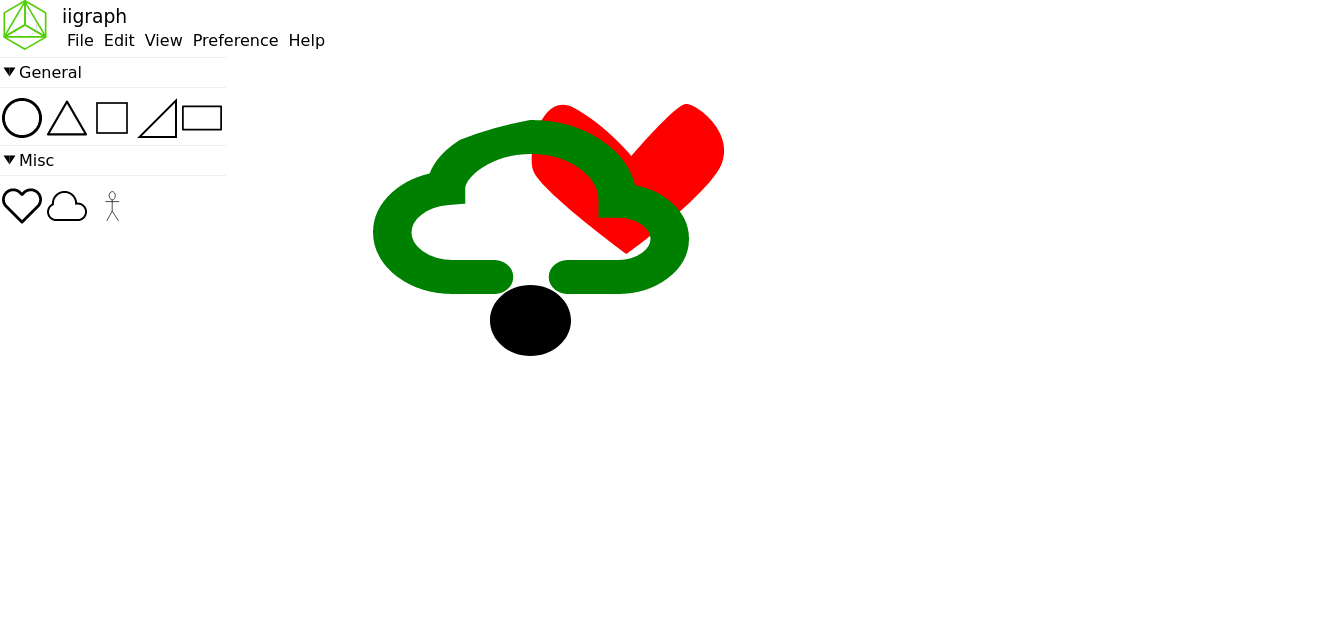
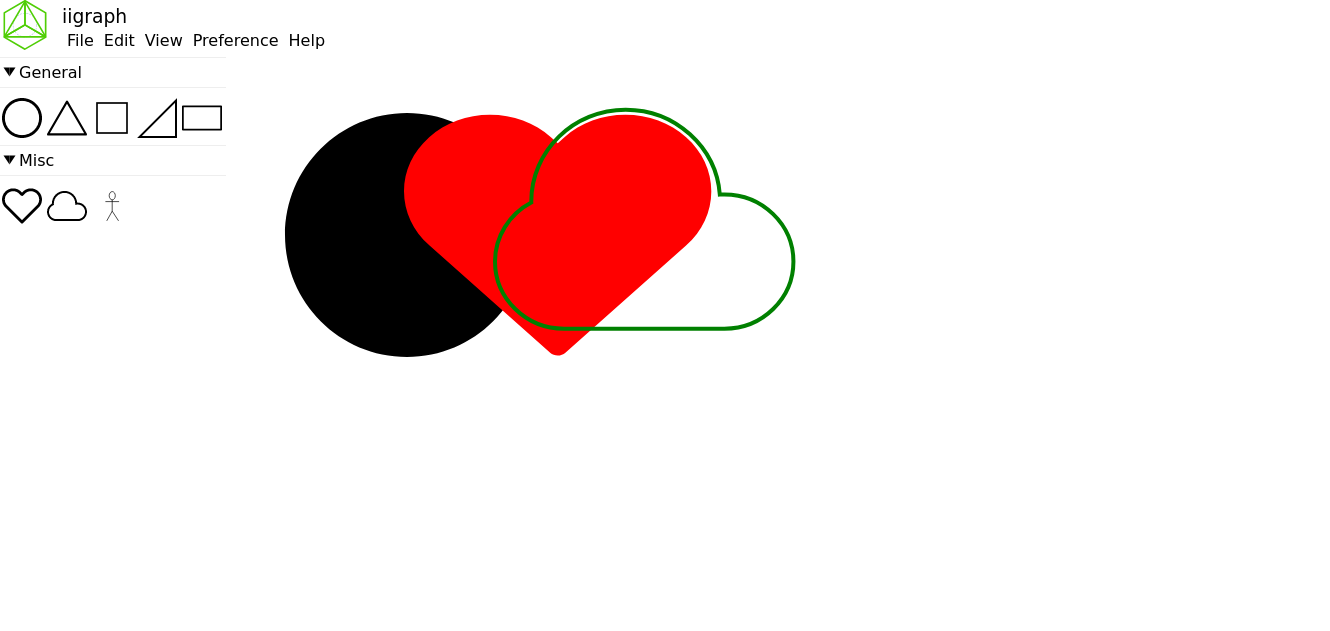
Added better heart and could, drag from corner maintains aspect ratio. BUG: Highspeed resize causes shifting of the shape.

Changed region(s): [[0.2158, 0.1506, 0.5857, 0.5721], [0.5857, 0.3613, 0.6165, 0.4818], [0.5549, 0.4818, 0.5857, 0.5119]]

diff --git a/src/lib/Shapes/Cloud.js b/src/lib/Shapes/Cloud.js
@@ -1,12 +1,12 @@
 class Cloud extends Path{
     constructor(canvas){
         super(canvas);
-        this.createHeart();
+        this.createCloud();
     }
-    createHeart(){
-        this.updatePath("M238.51100006273398,94.78799621844487A259.30500006273417,153.41999777515454,0,0,1,305.00000006273297,75.99999571961364c49.76499999999989,0,91.07549999999982,28.00000074341446,95.57099999999993,64.1060017020474C430.023000062734,143.2559975052951,453.0000000627336,161.9179980007808,453.0000000627336,184.82199860889398C453.0000000627336,209.96599927647975,425.28700006273596,229.99999980839283,391.7095000627346,229.99999980839283H342.00000006273285a9.249999999999948,7.000000185853615,0,0,1,0,-14.00000037170723h49.72800000000007C415.6115000627338,215.99999943668624,434.50000006273336,201.83199906051817,434.50000006273336,184.82199860889398c0,-17.02400045199594,-18.869999999999987,-31.192000828163692,-42.79050000000008,-31.192000828163692h-9.249999999999948v-7.000000185853615C382.47800006273326,115.54999676968666,348.068000062733,89.99999609132091,305.00000006273297,89.99999609132091a83.80500000000009,63.42000168383372,0,0,0,-54.4085000000001,15.400000408877931c-14.004499999999979,9.128000242353112,-21.33049999999995,20.132000534514958,-21.33049999999995,28.770000763858334v6.272000166524823l-8.232500000000005,0.6860000182136536C195.18400006273436,143.2699975056668,175.50000006273376,159.32799793201508,175.50000006273376,178.45199843976727C175.50000006273376,198.98999898506162,198.25500006273373,215.99999943668624,226.94850006273427,215.99999943668624H268.000000062734a9.249999999999948,7.000000185853615,0,0,1,0,14.00000037170723H226.94850006273427C188.59800006273412,229.99999980839283,157.0000000627335,207.1239992010235,157.0000000627335,178.45199843976727c0,-24.682000655319857,23.420999999999978,-45.12200119801239,54.426999999999865,-50.30200133554408c2.6454999999999944,-12.082000320783328,12.913000000000002,-24.122000640451493,27.083999999999964,-33.362000885778336z");
-        this.fill("red");
+    createCloud(){
+        this.updatePath("M472.25358731623794,127.23909029296324c-1.3337071502332212,0,-2.680244015072969,0.0454417536329728,-4.039027425673494,0.130374555066029c-3.2779920819680513,-40.02931619133118,-39.435626856240084,-71.67246494434876,-83.42113704703175,-71.67246494434876c-46.125739854698985,0,-83.65557092302375,34.81054717588727,-83.65557092302375,77.60477768648187c0,0.25425743104163334,0.002332675383005194,0.50580999579559,0.010497039223523384,0.7606084000947584C281.4774806236945,143.90809927740125,269,163.06666719301697,269,183.9806933293352c0,31.286106403044215,27.435761517215614,56.74430790265963,61.165664386624925,56.74430790265963h142.0879229296124c33.723488012106095,0,61.16741389316222,-25.455496633327776,61.16741389316222,-56.74430790265963C533.4210012093995,152.69350497977615,505.97707532834374,127.23909029296324,472.25358731623794,127.23909029296324z");
+        this.fill("transparent");
         this.stroke("green")
-        this.strokeWidth(20);
+        this.strokeWidth(4);
     }
 }

diff --git a/src/lib/Shapes/Heart.js b/src/lib/Shapes/Heart.js
@@ -4,7 +4,7 @@ class Heart extends Path{
         this.createHeart();
     }
     createHeart(){
-        this.updatePath("M400.52317,200c0,0 -87.63504,-64 -93.54303,-84c-5.90798,-20 8.86197,-80 41.35586,-62c32.49389,18 57.11048,48 57.11048,48c0,0 43.32519,-51 54.15649,-52c10.8313,-1 48.24851,28 36.43255,59c-11.81596,31 -95.51235,91 -95.51235,91z");
+        this.updatePath("M399.37251074445703,60.86257532286164c-22.985761270090897,0,-44.64176775596166,7.9928937874200425,-60.915433448560464,22.45890578296193l-6.712095577492107,5.966526348355799L324.9062428281293,83.20890513698666c-16.273665692598794,-14.466011995541894,-37.929672178469566,-22.45890578296193,-60.915433448560464,-22.45890578296193c-22.922439613699467,0,-44.5151244431788,7.936605803001586,-60.788790135777575,22.40261779854347S178,116.81283183480193,178,137.2453701786996s8.99167520758377,39.62674103058949,25.265340900182558,54.09275302613138l120.62775542568373,107.22861031714899l0.2532866255657401,0.22515193767380384c2.089614660917353,1.8575034858088821,4.875767542140494,2.7581112365040985,7.598598766972197,2.7581112365040985c2.78615288122314,0,5.57230576244628,-0.9568957351136661,7.661920423363636,-2.814399220922548l120.62775542568373,-107.22861031714899c16.273665692598794,-14.466011995541894,25.265340900182558,-33.66021468223372,25.265340900182558,-54.09275302613138s-8.928353551192336,-39.68302901500792,-25.20201924379112,-54.09275302613138C443.88763518763574,68.79918112586336,422.29495035815626,60.86257532286164,399.37251074445703,60.86257532286164z");
         this.fill("red");
     }
 }

diff --git a/src/lib/Path.js b/src/lib/Path.js
@@ -34,6 +34,7 @@ class Path{
         }
         this.handle=undefined;
         }
+        this.removePlaceholder();
     }
     /**
      * 
@@ -53,6 +54,10 @@ class Path{
         this.addParameter("d",d,this.placeholder);
         this.addParameter("style","visibility:hidden;",this.placeholder);
         return this.placeholder;
+    }
+    removePlaceholder(){
+        if(this.placeholder!=undefined) this.placeholder.remove();
+        this.placeholder=undefined;
     }
     
     /**
@@ -89,9 +94,10 @@ class Path{
         this.addParameter("stroke-width",width,this.path);
     }
     scaleAll(dx,dy,handle){
+        if(handle=="0"||handle=="2") dy=dx;
+        else if(handle=="4"||handle=="6") dx=dy;
         let d=this.path.getAttribute("d");
         let segs=parse(d);
-        console.log(segs);
         if(segs==false){
             console.warn("Can't parse!");
             return;
@@ -165,7 +171,7 @@ class Path{
         segs=this.moveAll(dx,dy,segs);
         let pathData=serialize(segs);
         let pch=this.createPlaceholder(pathData).getBBox();
-        if(pch.width<3||pch.height<3) return;
+        if(pch.width<30||pch.height<30) return;
         this.updatePath(pathData);
     }
     moveAll(dx,dy,segs){
